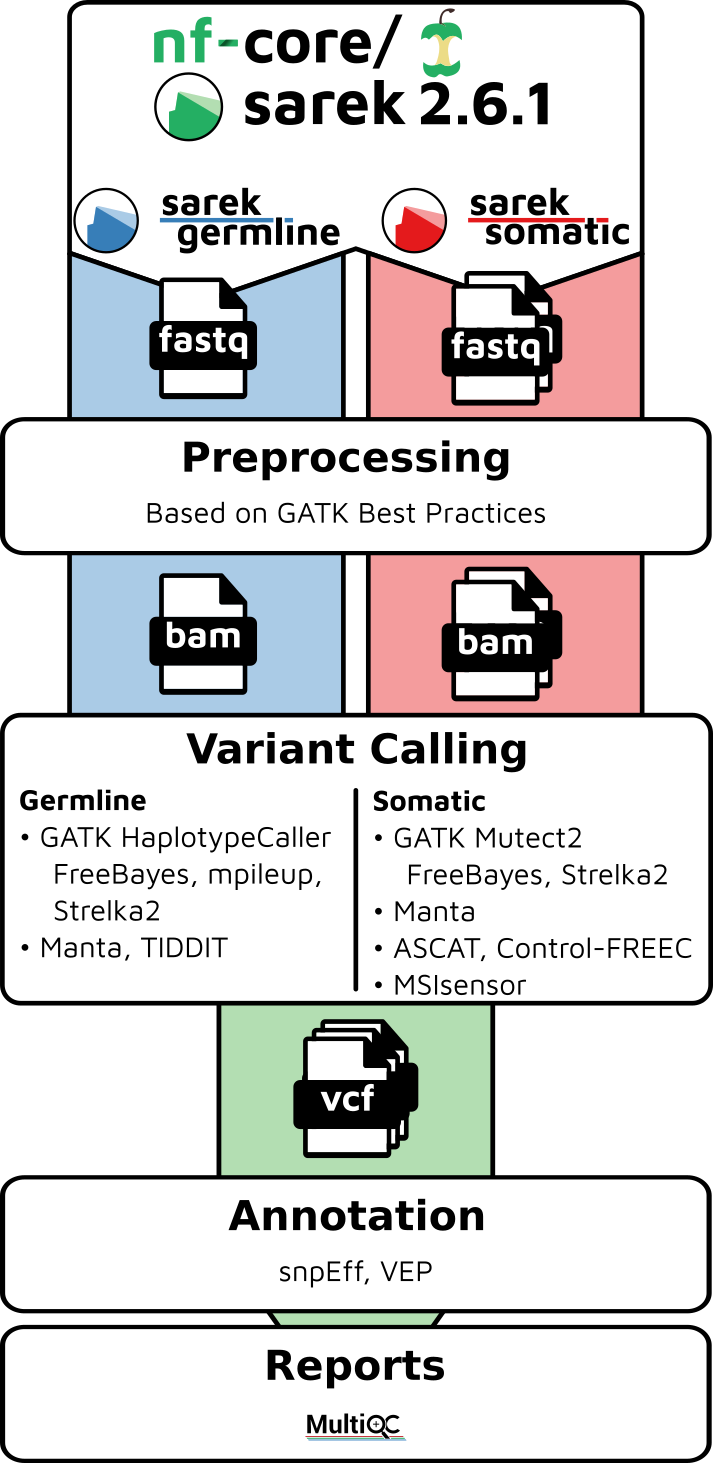
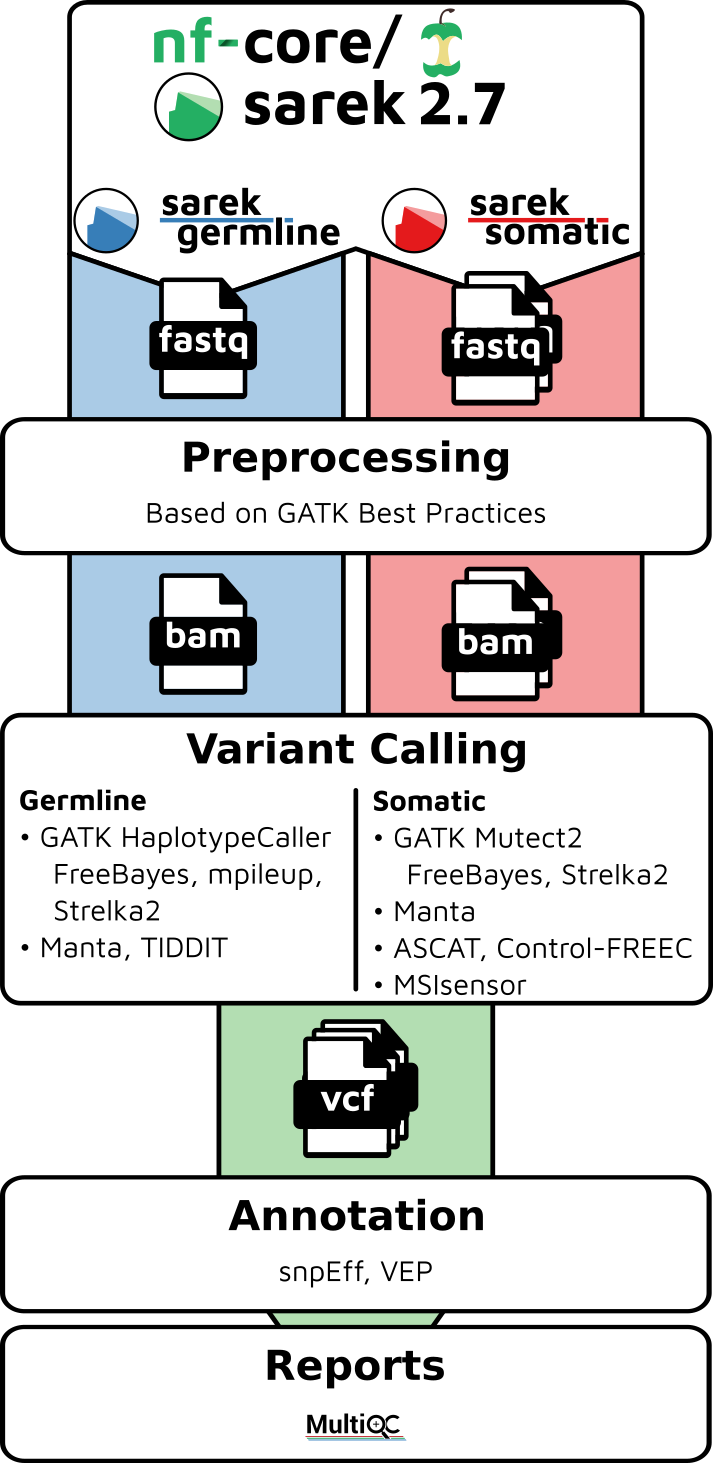
chores: manual bump to 2.7

Changed region(s): [[0.648, 0.0308, 0.7714, 0.0923], [0.5863, 0.4921, 0.648, 0.5229], [0.864, 0.5844, 0.8948, 0.6152]]

diff --git a/CHANGELOG.md b/CHANGELOG.md
@@ -5,7 +5,9 @@ All notable changes to this project will be documented in this file.
 The format is based on [Keep a Changelog](https://keepachangelog.com/en/1.0.0/)
 and this project adheres to [Semantic Versioning](https://semver.org/spec/v2.0.0.html).
 
-## [dev](https://github.com/nf-core/sarek/tree/dev)
+## [2.7](https://github.com/nf-core/sarek/releases/tag/2.7) - Pårte
+
+Pårte is one of the main massif in the Sarek National Park.
 
 ### Added
 
